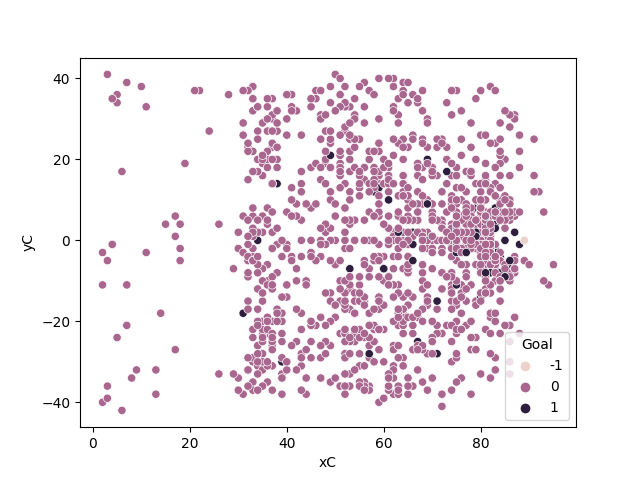
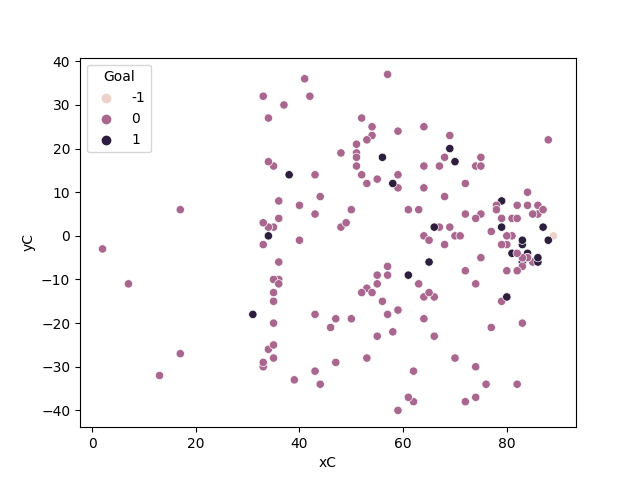
added dummies for shot type

diff --git a/other_work/xG/get_data.py b/other_work/xG/get_data.py
@@ -12,8 +12,7 @@ from joblib import dump
 
 # Scrape data
 print("Begining to scrape pbp. No shifts. Depending on what timerange was requested, this could take awhile.")
-data = hockey_scraper.scrape_games([2022020017, 2022020034, 2022020045, 2022020067, 2022020074, 2022020101, 2022020113, 2022020132,
-2022020140, 2022020151, 2022020167, 2022020206, 2022020210, 2022020224, 2022020240], False, data_format = 'Pandas')
+data = hockey_scraper.scrape_games([2022020017, 2022020034], False, data_format = 'Pandas')
 print("Finished scraping.")
 
 # Access dataframe
@@ -32,10 +31,12 @@ df.drop(['Game_Id', 'Date', 'Description', 'Time_Elapsed',
        'homePlayer6', 'homePlayer6_id', 'Away_Players', 'Home_Players',
        'Away_Score', 'Home_Score', 'Away_Goalie_Id',
        'Home_Goalie_Id', 'Home_Coach',
-       'Away_Coach'], axis=1, inplace=True)
+       'Away_Coach', 'Home_Zone', 'p1_name'], axis=1, inplace=True)
+
 
 # Drop empty values, this will get rid of lots of unecessary events. It will also get rid of empty net goals.
 df.dropna(inplace=True)
+
 
 # Drop worthless events, also drop shootout events
 events = df[ (df.Event == 'FAC') | (df.Event == 'BLOCK') | 
@@ -44,16 +45,19 @@ events = df[ (df.Event == 'FAC') | (df.Event == 'BLOCK') |
 
 df.drop(events, inplace=True)
 
+# Add a binary column for Goals 
+df['Goal'] = numpy.where(df.Event == 'GOAL', 1, 0)
+
+df.drop(['Away_Goalie', 'Home_Goalie', 'Event', 'Strength'], axis=1, inplace=True)
+
 # We need to transpose goals/shots/misses so it reads as if they all happen on the same net.
 # So we will tranpose the shot location if it is in the negative half of the rink.
 # Technically this could incorrecly move some shots that occur form over the red line.
-# Those dont happen very often and we alreay removed empty net goals, so there shouldnt be any goals from beyond the red line.
+# Those dont happen very often and we already removed empty net goals, so there shouldnt be any goals from beyond the red line.
+# This will add a couple shots that take place behind the net, but they will never be goals, so it wont give them a good score.
 # Overall this could add a little extra noise, but it should not be anything too serious. 
 df.loc[(df['xC'] < 0), 'yC'] = df['yC'] * -1
 df.loc[(df['xC'] < 0), 'xC'] = df['xC'] * -1
-
-# Add a binary column for Goals 
-df['Goal'] = numpy.where(df.Event == 'GOAL', 1, 0)
 
 # This function calculates the angle to the center of the net at (89, 0) in radians and degrees.
 def angles(x, y):
@@ -62,6 +66,11 @@ def angles(x, y):
     degrees = (radians * 180.0) / 3.14
     arr = [radians, degrees]
     return arr
+
+
+# We will employ one categorical variable, the shot type.
+# The get_dummies function will create columns for a binary labeling of all 8 of the shot types. 
+df = pandas.get_dummies(df)
 
 # Initiliaze empty columns
 df['Angle_Radians'] = ''
@@ -88,30 +97,35 @@ print(df['Distance'].mean())
 
 # Data should be good to go at this point. 
 # We will build the model
-predictors = ['xC', 'yC', 'Angle_Radians', 'Angle_Degrees', 'Distance']
-x = df[predictors] 
+predictors = ['xC', 'yC', 'Type_', 'Type_BACKHAND', 'Type_DEFLECTED', 'Type_SLAP SHOT', 'Type_SNAP SHOT', 'Type_TIP-IN', 'Type_WRAP-AROUND', 'Type_WRIST SHOT', 'Angle_Radians', 'Angle_Degrees', 'Distance']
+x = df[predictors]
 y = df.Goal
 x_train, x_test, y_train, y_test = train_test_split(x, y, test_size =.2, random_state=16)
 model = LogisticRegression()
 model.fit(x_train, y_train)
 score = model.score(x_test, y_test)
 predictions = model.predict(x_test)
-print('goals ' + str(len(df.Event=='GOAL')))
-print('fenwick shots' + str(len(df.Event)))
 print(score)
 cm = metrics.confusion_matrix(y_test, predictions)
+print("confusion matrix: ")
 print(cm)
-print(model.coef_)
+print("coefficients: "+ str(model.coef_))
+
+# Our columns after modeling are as follows:
+# Period, xC, yC, Goal, Type_, Type_BACKHAND, Type_DEFLECTED, Type_SLAP SHOT, Type_SNAP SHOT, Type_TIP-IN, Type_WRAP-AROUND, Type_WRIST SHOT, Angle_Radians, Angle_Degrees, Distance
 
 x = 86
 y = -6
 new_angles = angles(x, y)
 new_distance = numpy.sqrt((y - 0)**2 + (x - 89.0)**2)
-new_shot = [[x, y, new_angles[0], new_angles[1], new_distance]]
+new_shot = [[x, y, 0, 0, 0, 1, 0, 0, 0, 0, new_angles[0], new_angles[1], new_distance]]
 new_df = pandas.DataFrame(new_shot, columns=predictors)
 pred = model.predict_proba(new_df) 
-print(pred)
-df.loc[len(df.index)] = [0, "NET", "", "NET", "OFF", "", "", "", 89, 0, -1, 0, 0, 0]
+print("odds of 0 and 1: " + str(pred))
+
+
+# Adding another point with -1 goal value that serve as the net in the graph created below
+df.loc[len(df.index)] = [0, 89, 0, -1, 0, 0, 0, 0, 0, 0, 0, 0, 0, 0, 0]
 sns.scatterplot(x='xC', y='yC', hue='Goal', marker='o', data=df)
 plt.savefig("xG.png")
 dump(model, 'xG.joblib')
